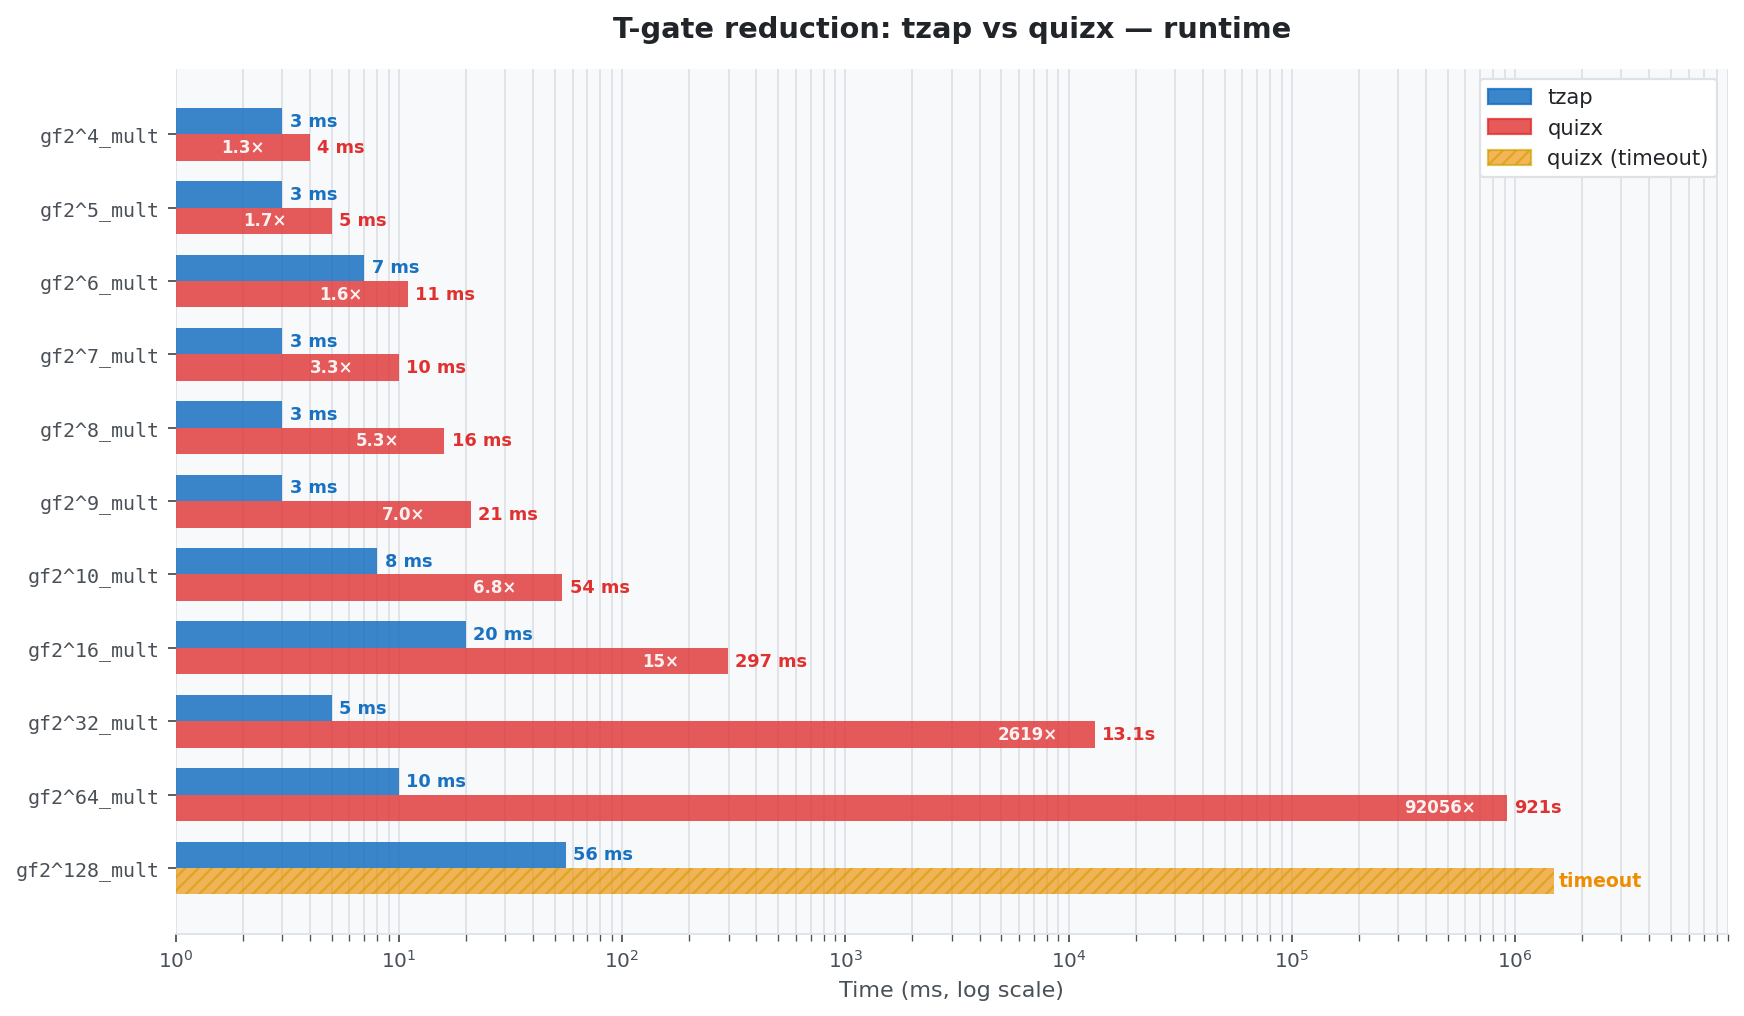
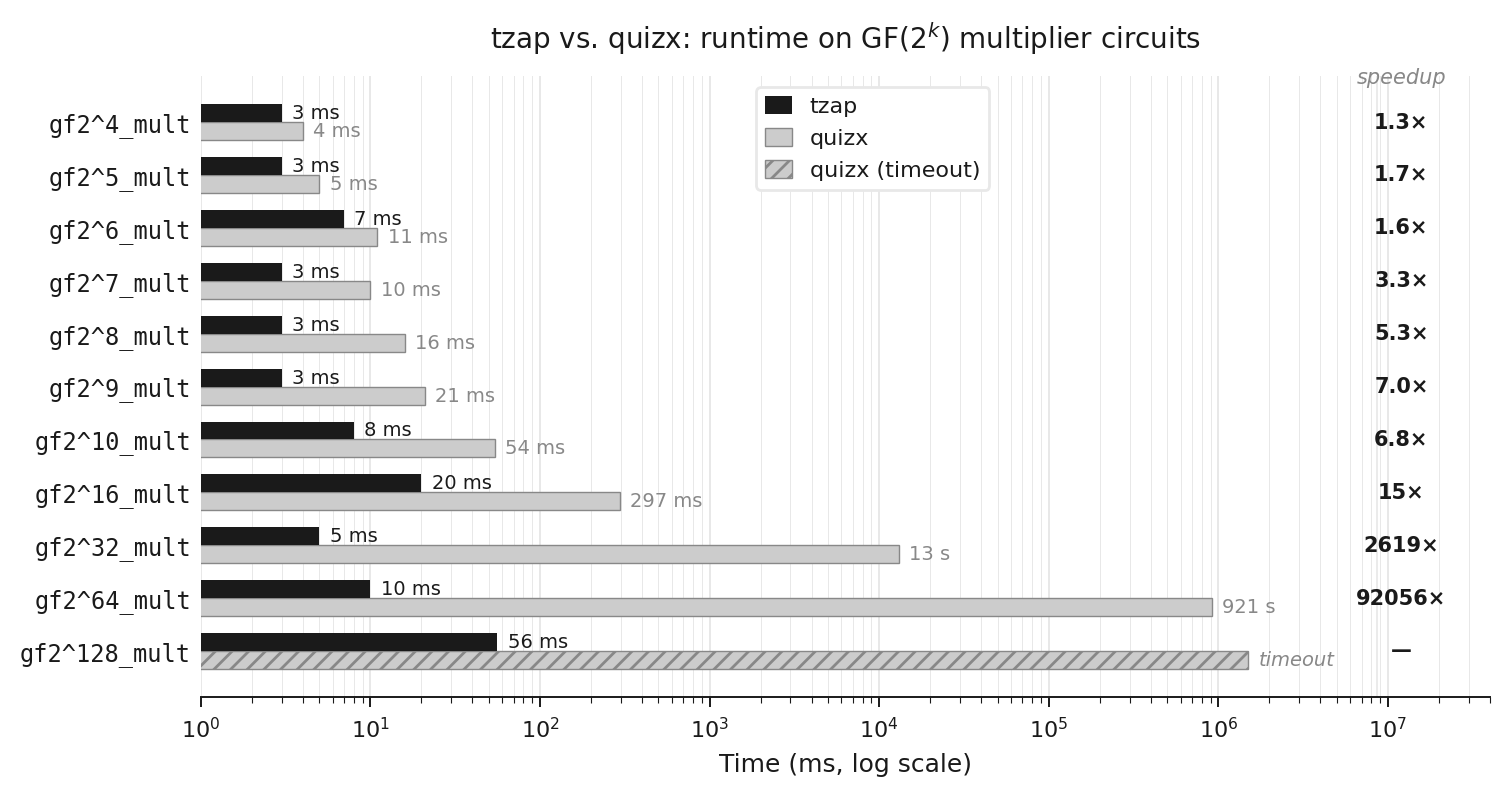
Redesign benchmark chart: monochrome with speedup column for paper

diff --git a/scripts/plot_comparison.py b/scripts/plot_comparison.py
@@ -3,8 +3,9 @@ matplotlib.use("Agg")
 import matplotlib.pyplot as plt
 import matplotlib.patches as mpatches
 import numpy as np
+import re
 
-# Raw data
+# --- data -------------------------------------------------------------------
 data = [
     ("gf2^4_mult",   3,      4),
     ("gf2^5_mult",   3,      5),
@@ -16,131 +17,131 @@ data = [
     ("gf2^16_mult", 20,    297),
     ("gf2^32_mult",  5,  13093),
     ("gf2^64_mult", 10, 920557),
-    ("gf2^128_mult",56,   None),  # None = timeout
+    ("gf2^128_mult",56,   None),
 ]
-
-# Sort by exponent in name (2^4, 2^5, ..., 2^128)
-import re
 data.sort(key=lambda r: int(re.search(r'\^(\d+)', r[0]).group(1)))
 
-circuits  = [r[0] for r in data]
-tzap_ms   = [r[1] for r in data]
-quizx_ms  = [r[2] for r in data]
+circuits = [r[0] for r in data]
+tzap_ms  = [r[1] for r in data]
+quizx_ms = [r[2] for r in data]
 
 TIMEOUT_PLACEHOLDER = 1_500_000
 
-# --- palette (light theme) --------------------------------------------------
-TZAP_COL    = "#1971C2"   # deep blue
-QUIZX_COL   = "#E03131"   # deep red
-TIMEOUT_COL = "#F08C00"   # amber
-BG          = "#FFFFFF"
-PANEL_BG    = "#F8F9FA"
-GRID_COL    = "#DEE2E6"
-TEXT_COL    = "#212529"
-LABEL_COL   = "#495057"
-
-fig, ax = plt.subplots(figsize=(11, 6.5))
-fig.patch.set_facecolor(BG)
-ax.set_facecolor(PANEL_BG)
-
-n = len(circuits)
-y = np.arange(n)
-bar_h = 0.36
-
-# --- quizx bars -------------------------------------------------------------
-quizx_vals = [v if v is not None else TIMEOUT_PLACEHOLDER for v in quizx_ms]
-is_timeout = [v is None for v in quizx_ms]
-
-bars_quizx = ax.barh(y + bar_h / 2, quizx_vals, bar_h,
-                     color=QUIZX_COL, alpha=0.80, zorder=3, label="quizx",
-                     linewidth=0)
-
 def fmt_time(ms):
+    if ms is None:
+        return "timeout"
     if ms >= 1000:
         s = ms / 1000
-        return f"{s:.1f}s" if s < 100 else f"{s:.0f}s"
+        return f"{s:.0f} s" if s >= 10 else f"{s:.1f} s"
     return f"{ms} ms"
 
 def fmt_speedup(tzap, quizx):
     if quizx is None:
         return None
-    ratio = quizx / tzap
-    if ratio >= 10:
-        return f"{ratio:.0f}×"
-    return f"{ratio:.1f}×"
+    r = quizx / tzap
+    return f"{r:.0f}×" if r >= 10 else f"{r:.1f}×"
 
-for bar, tmo in zip(bars_quizx, is_timeout):
+# --- style ------------------------------------------------------------------
+plt.rcParams.update({
+    "font.family":       "sans-serif",
+    "font.size":         9,
+    "axes.linewidth":    0.7,
+    "xtick.major.width": 0.7,
+    "xtick.minor.width": 0.4,
+})
+
+DARK  = "#1a1a1a"
+MID   = "#888888"
+LIGHT = "#cccccc"
+WHITE = "#ffffff"
+GRID  = "#e8e8e8"
+
+fig, ax = plt.subplots(figsize=(7.5, 4.0))
+fig.patch.set_facecolor(WHITE)
+ax.set_facecolor(WHITE)
+
+n     = len(circuits)
+y     = np.arange(n)
+bar_h = 0.34
+
+is_timeout = [v is None for v in quizx_ms]
+quizx_draw = [v if v is not None else TIMEOUT_PLACEHOLDER for v in quizx_ms]
+
+# quizx bars
+bars_q = ax.barh(y + bar_h / 2, quizx_draw, bar_h,
+                 color=LIGHT, edgecolor=MID, linewidth=0.5, zorder=3)
+for bar, tmo in zip(bars_q, is_timeout):
     if tmo:
-        bar.set_color(TIMEOUT_COL)
-        bar.set_alpha(0.65)
         bar.set_hatch("////")
-        bar.set_edgecolor("#CCA300")
-        ax.text(TIMEOUT_PLACEHOLDER * 1.05,
-                bar.get_y() + bar.get_height() / 2,
-                "timeout", va="center", ha="left", fontsize=8.5,
-                color=TIMEOUT_COL, fontweight="bold")
 
-# --- tzap bars --------------------------------------------------------------
-bars_tzap = ax.barh(y - bar_h / 2, tzap_ms, bar_h,
-                    color=TZAP_COL, alpha=0.85, zorder=3, label="tzap",
-                    linewidth=0)
+# tzap bars
+bars_t = ax.barh(y - bar_h / 2, tzap_ms, bar_h,
+                 color=DARK, linewidth=0, zorder=3)
 
-# --- value labels -----------------------------------------------------------
-for bar, val in zip(bars_tzap, tzap_ms):
-    ax.text(val * 1.08, bar.get_y() + bar.get_height() / 2,
-            fmt_time(val), va="center", ha="left", fontsize=8,
-            color=TZAP_COL, fontweight="semibold")
-
-for bar, val, tmo in zip(bars_quizx, quizx_ms, is_timeout):
-    if not tmo:
-        ax.text(val * 1.08, bar.get_y() + bar.get_height() / 2,
-                fmt_time(val), va="center", ha="left", fontsize=8,
-                color=QUIZX_COL, fontweight="semibold")
-
-# --- speedup labels on quizx bars (or at right edge for timeout) ------------
-for bar, tzap, quizx, tmo in zip(bars_quizx, tzap_ms, quizx_ms, is_timeout):
-    label = fmt_speedup(tzap, quizx)
-    if label is None:
-        continue
-    bar_cx = (bar.get_x() + bar.get_width()) / 2 if not tmo else TIMEOUT_PLACEHOLDER / 2
-    bar_cy = bar.get_y() + bar.get_height() / 2
-    ax.text(bar_cx, bar_cy, label,
-            va="center", ha="center", fontsize=7.5, fontweight="bold",
-            color="white", alpha=0.92)
-
-# --- axes -------------------------------------------------------------------
+# --- axes (set before annotating so transforms are stable) ------------------
 ax.set_xscale("log")
-ax.set_xlim(1, 9_000_000)
-
-ax.set_yticks(y)
-ax.set_yticklabels(circuits, fontsize=10.5, color=TEXT_COL, fontfamily="monospace")
-
-ax.set_xlabel("Time (ms, log scale)", color=LABEL_COL, fontsize=10)
-ax.tick_params(colors=LABEL_COL, which="both", labelsize=9)
-ax.tick_params(axis="x", which="minor", length=3)
-
-for spine in ["top", "right", "left"]:
-    ax.spines[spine].set_visible(False)
-ax.spines["bottom"].set_color(GRID_COL)
-
-ax.xaxis.grid(True, which="both", color=GRID_COL, linewidth=0.8, zorder=0)
-ax.set_axisbelow(True)
+ax.set_xlim(1, 4e7)          # extra right margin for labels
 ax.invert_yaxis()
 
+ax.set_yticks(y)
+ax.set_yticklabels(circuits, fontsize=8.5, fontfamily="monospace", color=DARK)
+ax.set_xlabel("Time (ms, log scale)", fontsize=9, color=DARK)
+ax.tick_params(axis="x", colors=DARK, which="both", labelsize=8)
+ax.tick_params(axis="y", length=0)
+
+for sp in ["top", "right", "left"]:
+    ax.spines[sp].set_visible(False)
+ax.spines["bottom"].set_color(DARK)
+
+ax.xaxis.grid(True, which="major", color=GRID, linewidth=0.7, zorder=0)
+ax.xaxis.grid(True, which="minor", color=GRID, linewidth=0.35, zorder=0)
+ax.set_axisbelow(True)
+
+# --- value labels (just outside each bar) -----------------------------------
+for bar, val in zip(bars_t, tzap_ms):
+    ax.text(val * 1.15, bar.get_y() + bar.get_height() / 2,
+            fmt_time(val), va="center", ha="left", fontsize=7, color=DARK)
+
+for bar, val, tmo in zip(bars_q, quizx_ms, is_timeout):
+    x = (TIMEOUT_PLACEHOLDER if tmo else val) * 1.15
+    ax.text(x, bar.get_y() + bar.get_height() / 2,
+            fmt_time(val), va="center", ha="left", fontsize=7,
+            color=MID, style="italic" if tmo else "normal")
+
+# --- speedup column: right-aligned at a fixed x position -------------------
+X_SPEEDUP = 1.2e7   # fixed x for speedup column (in data coords)
+ax.axvline(X_SPEEDUP * 0.72, color=GRID, linewidth=0.6, zorder=0)   # subtle separator
+
+for i, (tzap, quizx) in enumerate(zip(tzap_ms, quizx_ms)):
+    label = fmt_speedup(tzap, quizx)
+    if label is None:
+        label = "—"
+    ax.text(X_SPEEDUP, i, label,
+            va="center", ha="center", fontsize=7.5,
+            fontweight="bold", color=DARK)
+
+# column header
+ax.text(X_SPEEDUP, -0.85, "speedup",
+        va="center", ha="center", fontsize=7.5, color=MID,
+        style="italic")
+
 # --- legend -----------------------------------------------------------------
-timeout_patch = mpatches.Patch(facecolor=TIMEOUT_COL, hatch="////",
-                                edgecolor="#CCA300", alpha=0.65,
+timeout_patch = mpatches.Patch(facecolor=LIGHT, hatch="////",
+                                edgecolor=MID, linewidth=0.5,
                                 label="quizx (timeout)")
-tzap_patch  = mpatches.Patch(color=TZAP_COL,  alpha=0.85, label="tzap")
-quizx_patch = mpatches.Patch(color=QUIZX_COL, alpha=0.80, label="quizx")
+tzap_patch  = mpatches.Patch(facecolor=DARK,  linewidth=0,    label="tzap")
+quizx_patch = mpatches.Patch(facecolor=LIGHT, edgecolor=MID,
+                              linewidth=0.5,                   label="quizx")
 ax.legend(handles=[tzap_patch, quizx_patch, timeout_patch],
-          facecolor=BG, edgecolor=GRID_COL, labelcolor=TEXT_COL,
-          fontsize=9.5, loc="upper right", framealpha=1)
+          facecolor=WHITE, edgecolor=GRID, labelcolor=DARK,
+          fontsize=8, loc="upper right", framealpha=1,
+          handlelength=1.2, handleheight=0.9,
+          bbox_to_anchor=(0.62, 1.0))
 
-ax.set_title("T-gate reduction: tzap vs quizx — runtime",
-             color=TEXT_COL, fontsize=13, pad=14, fontweight="bold")
+ax.set_title("tzap vs. quizx: runtime on GF(2$^k$) multiplier circuits",
+             fontsize=10, color=DARK, pad=10)
 
-plt.tight_layout()
-plt.savefig("scripts/comparison.png", dpi=160, bbox_inches="tight",
-            facecolor=fig.get_facecolor())
+plt.tight_layout(pad=0.6)
+plt.savefig("scripts/comparison.png", dpi=200, bbox_inches="tight",
+            facecolor=WHITE)
 print("Saved to scripts/comparison.png")
